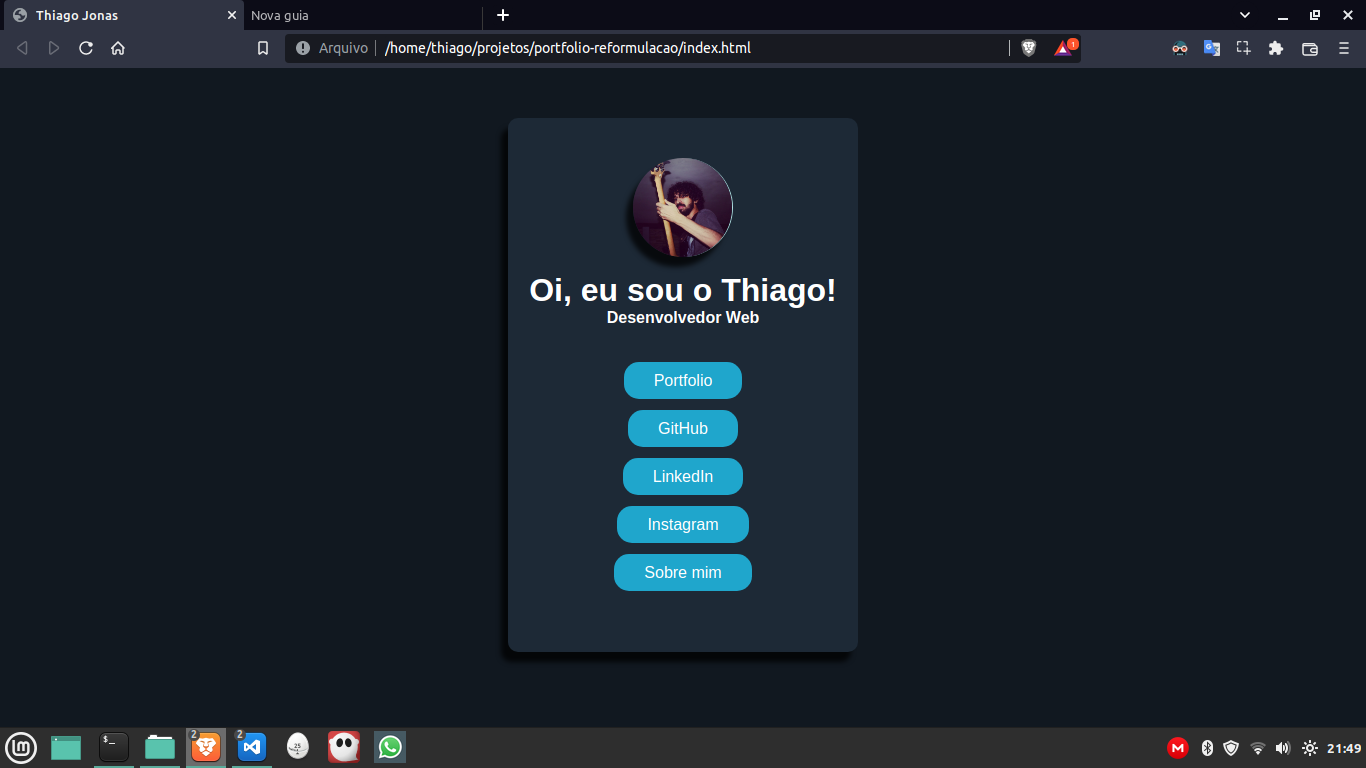
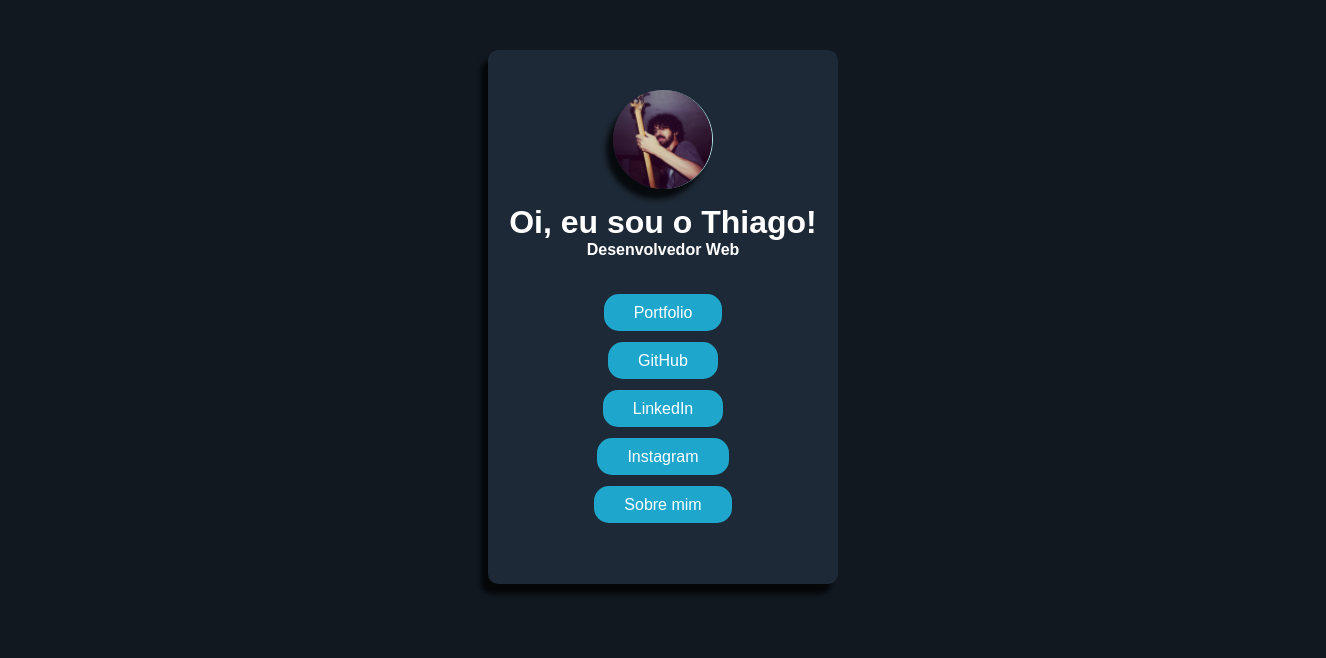
melhoria do design

diff --git a/css/estilos2.css b/css/estilos2.css
@@ -77,6 +77,38 @@ header #menu ul li a:active{
 -moz-box-shadow: -1px 10px 5px 0px rgba(0,0,0,0.75);
 
 }
+
+/*BACKGROUND TOPO*/
+
+#foto{
+    margin-top: 10px;
+    display: flex;
+    justify-content: center;
+    align-items: center;
+    height: 500px;
+    width: 100%;
+    background: no-repeat center url(../img/software-developer-g0da093a20_1920.jpg);
+
+    box-shadow: -1px 10px 5px 0px rgba(0,0,0,0.75);
+-webkit-box-shadow: -1px 10px 5px 0px rgba(0,0,0,0.75);
+-moz-box-shadow: -1px 10px 5px 0px rgba(0,0,0,0.75);
+
+  border-bottom: 5px solid #1fa6cc;
+    
+    
+    
+}
+
+.secundario{
+    text-align: end;
+    width: 70%;
+    color: white;
+    background-color: black;
+    opacity: 95%;
+    
+    
+}
+
 /*Principal*/
 
 .principal{
@@ -99,8 +131,10 @@ header #menu ul li a:active{
     padding-top: 30px;
     padding-bottom: 30px;
 
-    /* background-color: black; */
-    background-color: #1d2936;
+    background-color: black;
+    /* background-color: #1d2936; */
+
+    border-bottom: 5px solid #1fa6cc;
 
     
     box-shadow: -1px 10px 5px 0px rgba(0,0,0,0.75);
@@ -110,7 +144,11 @@ header #menu ul li a:active{
 }
 .card{
     /* width: 90%; */
-    background-color: rgb(7, 7, 12);
+    /* background-color: rgb(7, 7, 12); */
+
+    background-color: #0d1218;
+
+
     border-radius: 10px;
     margin: 10px;
 
@@ -121,6 +159,15 @@ header #menu ul li a:active{
     color: white;
     text-align: center;
     font-family: roboto;
+
+    border-bottom: 5px solid #1fa6cc;
+}
+
+.card:hover{
+    border-top: 3px solid lightblue;
+    border-right: 3px solid lightblue;
+    border-left: 3px solid lightblue;
+    border-bottom: 5px solid lightblue;
 }
 .card footer a{
     /* background: linear-gradient(to top left, #0066ff 0%, #ff99ff 100%); */
@@ -132,6 +179,7 @@ header #menu ul li a:active{
 }
 .card footer a:hover{
     padding: 10px;
+    
 }
 .card footer a:active{
     background-color: aqua;
@@ -151,6 +199,8 @@ header #menu ul li a:active{
     padding: 10px;
 }
 .card img{
+    margin-bottom: 5px;
+    border-radius: 10px 10px 0 0;
     width: 100%;
     padding: 15px auto;
 
@@ -165,9 +215,12 @@ header #menu ul li a:active{
     justify-content: center;
     align-items: center;
     padding: 30px;
-    background-color: #1d2936;
+    /* background-color: #1d2936; */
+    background-color: black;
     width: 100%;
     margin: 0 auto;
+
+    border-bottom: 5px solid #1fa6cc;
     
     box-shadow: -1px 10px 5px 0px rgba(0,0,0,0.75);
 -webkit-box-shadow: -1px 10px 5px 0px rgba(0,0,0,0.75);
@@ -308,7 +361,7 @@ body::-webkit-scrollbar {
     justify-content: center;
     padding-top: 30px;
     padding-bottom: 30px;
-    background-color: #1d2936;
+    /* background-color: #1d2936; */
     
     
 
@@ -341,6 +394,11 @@ body::-webkit-scrollbar {
         font-size: 100%;
         position: fixed;
         top: 0;
+        z-index: 10;
+    }
+
+    #foto{
+        margin-top: 70px;
     }
 
     #titulo{
@@ -374,7 +432,7 @@ body::-webkit-scrollbar {
     .container{
         width: 100%;
         margin-bottom: 5px;
-        margin-top: 70px;
+        margin-top: 5px;
         margin-left: auto;
         margin-right: auto;
         display: flex;
@@ -384,7 +442,7 @@ body::-webkit-scrollbar {
         padding-top: 30px;
         padding-bottom: 30px;
     
-        background-color: #1d2936;
+        /* background-color: #1d2936; */
         
         
     

diff --git a/index.html b/index.html
@@ -27,16 +27,23 @@
         
         <nav id="menu">
             <ul type="none">
-                <li><a href="index.html">Home</a></li>
-                <li><a href="#projetos">Projetos</a></li>
-                <li><a href="#sobre">Sobre mim</a></li>
-                <li><a href="#contatos">Contato</a></li>
+                <li><a href="index.html">HOME</a></li>
+                <li><a href="#projetos">PROJETOS</a></li>
+                <li><a href="#sobre">SOBRE</a></li>
+                <li><a href="#contatos">CONTATO</a></li>
                 
             </ul>
         </nav>
     </header>
     
     <div class="principal">
+
+        <div id="foto">
+            <div class="secundario">
+                <blockquote>O programador no fundo é um artista.</blockquote>
+                <p> - <span>Thiago Jonas</span></p>
+            </div>
+        </div>
 
         <main class="container" id="projetos">
             
